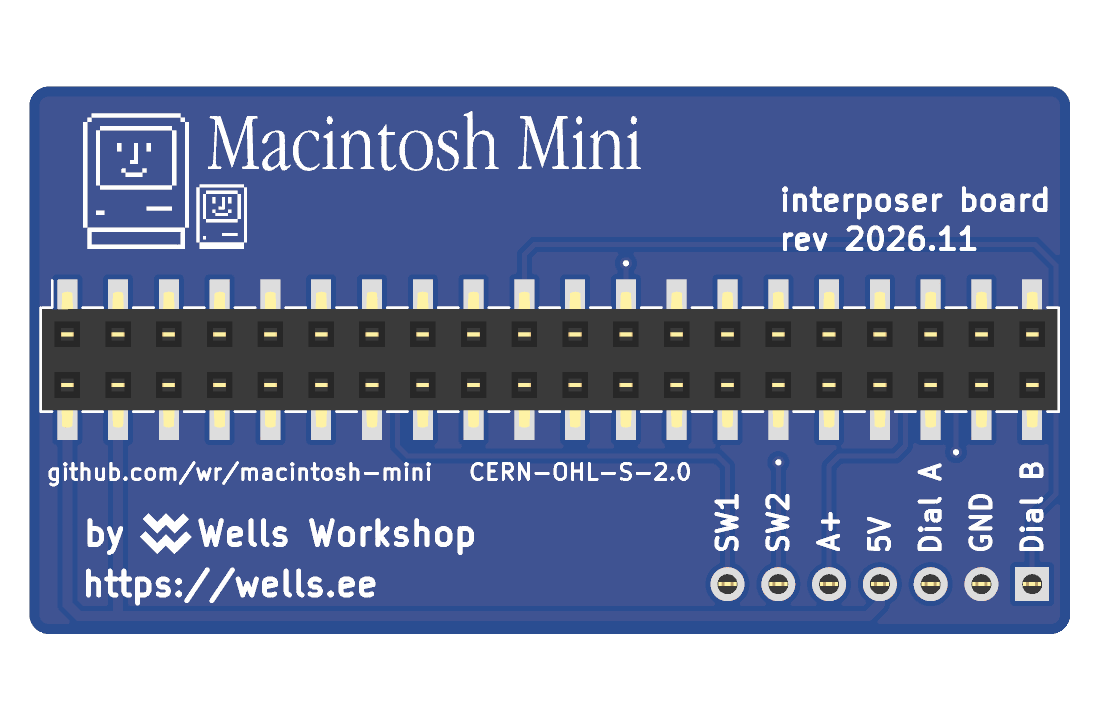
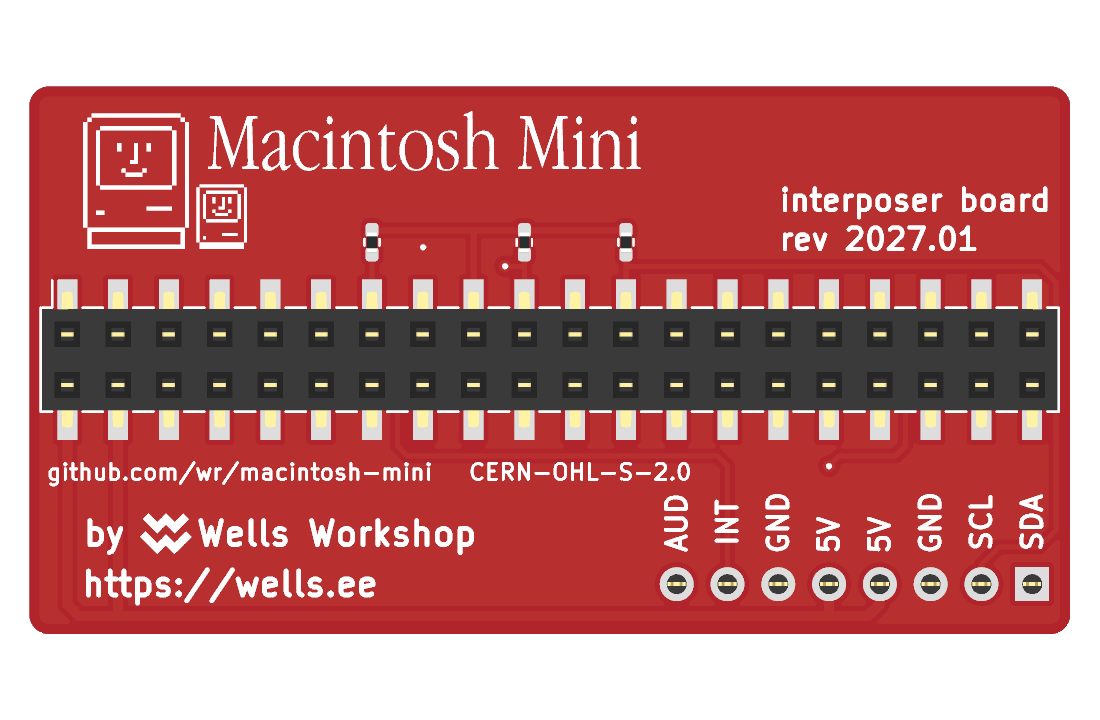
maclock-interposer: README, pictures and AGENTS.md for rev 2027.01

diff --git a/maclock-interposer/README.md b/maclock-interposer/README.md
@@ -4,19 +4,24 @@
 
 A 52 × 27.4 mm, 2-layer KiCad 10 board that sits on the 40-pin header between the Pi Zero 2 W and the Waveshare 2.8" DPI display. Order it fully assembled — no soldering, and no bent, cut, or desoldered pins on the Pi.
 
-An SMD socket underneath plugs onto the Pi and an SMD pin header on top plugs into the display. 35 pins pass straight through (one via each); the five GPIOs the [breakout PCB](../maclock-pcb/) uses (header pins 13, 19, 23, 35, 37) connect to the Pi side **only** and never reach the display, which otherwise fights the dial and buttons. Those five plus 5V and GND come out on a straight 1×7 female socket (J2) on the screen side at the GPIO 21 end, in the same order as the breakout's `Pi GPIO` header, so one straight 1×7 male-to-female Dupont cable connects the two.
+Current revision: 2027.01, for the rev 2027.01 [main board](../maclock-pcb/). **It hasn't been built or tested yet, and the Pi software for it isn't written.** The two revisions don't mix, because their link pins differ: with a rev 2026.11 main board, use the 2026.11 interposer at commit [`ea41efe`](https://github.com/wr/macintosh-mini/tree/ea41efe2434ef0056f3ba3236e3c8bb0ac9fd945/maclock-interposer).
 
-The board is drawn the way it sits in the Maclock: Pi mounted upside-down, seen from the screen. Order it with **blue solder mask and white silkscreen** — the screen side is inverted (silk is the background, the lettering is bare mask); branding is on the Pi side, and J2's pin labels are on both sides.
+An SMD socket underneath plugs onto the Pi and an SMD pin header on top plugs into the display. 35 pins pass straight through (one via each). Header pins 13, 19, 23, 35 and 37 connect to the Pi side **only** and never reach the display. Four of them, plus 5V and GND, come out on a straight 1×8 female socket (J2) on the screen side at the GPIO 21 end. J2's pins are in the same order as the main board's `Link` header, so one straight 8-way male-to-female Dupont cable connects the two. Pin 37 (GPIO 26) is unused.
 
-| J2 pin | Silk   | Net   | Pi header pin | GPIO |
-| ------ | ------ | ----- | ------------- | ---- |
-| 1      | Dial B | ENC_B | 19            | 10   |
-| 2      | GND    | GND   | 20 (all GNDs) | —    |
-| 3      | Dial A | ENC_A | 23            | 11   |
-| 4      | 5V     | 5V    | 2, 4          | —    |
-| 5      | A+     | AUDIO | 35            | 19   |
-| 6      | SW2    | BTN2  | 37            | 26   |
-| 7      | SW1    | BTN1  | 13            | 27   |
+The display uses the Pi's hardware I²C pins for its sync signals, so the Pi reaches the main board's input chip and battery gauge over a software I²C bus on GPIO 10 and 11. Three resistors on the Pi side complete the link. R1 and R2 pull SDA and SCL up to the Pi's 3.3 V. R3 pulls up INT, which the main board's input chip only ever pulls low. The main board has none of these, because the ESP32-P4 build brings its own.
+
+The board is drawn the way it sits in the Maclock: Pi mounted upside-down, seen from the screen. Order it with **red solder mask and white silkscreen**, like the 2027.01 main board, so it can't be paired with a blue 2026.11 board by mistake. The screen side is inverted (silk is the background, the lettering is bare mask). Branding is on the Pi side, and J2's pin labels are on both sides.
+
+| J2 pin | Silk | Net   | Pi header pin | GPIO |
+| ------ | ---- | ----- | ------------- | ---- |
+| 1      | SDA  | SDA   | 19            | 10   |
+| 2      | SCL  | SCL   | 23            | 11   |
+| 3      | GND  | GND   | all GNDs      | —    |
+| 4      | 5V   | 5V    | 2, 4          | —    |
+| 5      | 5V   | 5V    | 2, 4          | —    |
+| 6      | GND  | GND   | all GNDs      | —    |
+| 7      | INT  | INT   | 13            | 27   |
+| 8      | AUD  | AUDIO | 35            | 19   |
 
 ## Bill of materials
 
@@ -24,13 +29,15 @@ The board is drawn the way it sits in the Maclock: Pi mounted upside-down, seen 
 | --- | --- | --------------------------------------------------------------------- | --------------------------------------------------------------------- | ------------------------------------------------- |
 | J1  | 1   | 2×20 female socket, 2.54 mm, SMD, 8.5 mm — Hong Cheng `HC-PM254-8.5H-2x20PS` | [`C22436166`](https://www.lcsc.com/product-detail/C22436166.html) | **Bottom** side, plugs onto the Pi                |
 | J3  | 1   | 2×20 pin header, 2.54 mm, SMD — Hanbo `HB-PH9-254220PB2GOP`            | [`C6332245`](https://www.lcsc.com/product-detail/C6332245.html)       | Top side, plugs into the display                  |
-| J2  | 1   | 1×7 female header (socket), 2.54 mm, 7.1 mm, THT — XFCN `PM254V-11-07-H71-U` | [`C55218706`](https://www.lcsc.com/product-detail/C55218706.html) | Top (screen) side |
+| J2  | 1   | 1×8 female header (socket), 2.54 mm, 7.1 mm, THT — XFCN `PM254V-11-08-H71-U` | [`C55218707`](https://www.lcsc.com/product-detail/C55218707.html) | Top (screen) side. LCSC had 190 in stock on 2026-11-27 |
+| R1, R2 | 2 | 2.2 kΩ ±1% 0402 — UNI-ROYAL `0402WGF2201TCE`                          | [`C25879`](https://www.lcsc.com/product-detail/C25879.html)           | Bottom side. I²C pull-ups on SDA and SCL          |
+| R3  | 1   | 10 kΩ ±1% 0402 — UNI-ROYAL `0402WGF1002TCE`                            | [`C25744`](https://www.lcsc.com/product-detail/C25744.html)           | Bottom side. Pull-up on INT                       |
 
 Both sides carry parts, so order two-sided assembly. Before ordering, check the J1/J3 drawings for locating pegs — the footprints are KiCad's generic peg-less SMD lands (3.0 / 3.15 × 1.0 mm pads, ±2.52 mm from the centreline).
 
 ## Use
 
-Stack Pi → interposer → display (silk: `THIS SIDE FACING PI` / `THIS SIDE FACING SCREEN`). Run a straight 1×7 male-to-female Dupont cable from J2 to the breakout's `Pi GPIO` header, pin 1 (`Dial B`, square pad, GPIO 21 end) to pin 1 (`Dial B`).
+Stack Pi → interposer → display, with the side marked `THIS SIDE FACING SCREEN` toward the display. Run a straight 1×8 male-to-female Dupont cable from J2 to the main board's `Link` header, pin 1 (`SDA`, square pad, GPIO 21 end) to pin 1 (`SDA`).
 
 The interposer adds about 12.5 mm between the Pi and the display (8.5 mm socket + 1.6 mm PCB + 2.5 mm header base), and the board reaches ~10.5 mm past the Pi's header edge. J2 stands 7.1 mm off the screen side, and the Dupont plug in it points toward the display — check both against your case and the display board before ordering.
 

diff --git a/maclock-pcb/README.md b/maclock-pcb/README.md
@@ -4,7 +4,7 @@
 
 KiCad 10 project for the board behind the Mac-shaped clock's screen. It holds the clock's front-panel parts (rotary encoder, two pushbuttons, speaker, power switch and battery harness) and links them to the computer through an 8-pin header. The same board serves the Raspberry Pi and ESP32-P4 builds. It also carries the PAM8302A speaker amplifier, a 5 V supply for the computer, a low-battery cutoff, an input chip that reads the dial and buttons, and a battery gauge (see [Design notes](#design-notes)).
 
-Current revision: 2027.01. **It hasn't been built or tested yet, and the interposers and software that go with it aren't finished.** To build a working Mini today, use rev 2026.11: its files are at commit [`ea41efe`](https://github.com/wr/macintosh-mini/tree/ea41efe2434ef0056f3ba3236e3c8bb0ac9fd945/maclock-pcb), the PCBway project below builds it, and [step 2 of the build guide](https://wells.ee/projects/macintosh-mini/#2-connect-the-pi-to-the-screen-and-the-board) wires it to the Pi. Rev 2026.09 boards, the first ones that shipped, work but whine faintly with the Pi running.
+Current revision: 2027.01. **It hasn't been built or tested yet, and the software that goes with it isn't written.** Its Pi interposer is the rev 2027.01 board in [`maclock-interposer/`](../maclock-interposer/). To build a working Mini today, use rev 2026.11: its files are at commit [`ea41efe`](https://github.com/wr/macintosh-mini/tree/ea41efe2434ef0056f3ba3236e3c8bb0ac9fd945/maclock-pcb), the PCBway project below builds it, and [step 2 of the build guide](https://wells.ee/projects/macintosh-mini/#2-connect-the-pi-to-the-screen-and-the-board) wires it to the Pi. Rev 2026.09 boards, the first ones that shipped, work but whine faintly with the Pi running.
 
 For the case-side parts you'll print, see the [3D-printed screen bezel](../maclock-screen-bezel/).
 

diff --git a/AGENTS.md b/AGENTS.md
@@ -58,11 +58,12 @@ the tiny Mac boots System 7 or Mac OS 8. This repo holds the installer (`setup.s
 ## Board revisions
 - `maclock-pcb/` holds rev 2027.01: one board for the Pi and ESP32-P4 builds, with a 5 V boost,
   one-way switch, latching low-battery cutoff, TCA9554 input chip, MAX17048 gauge and an 8-pin
-  link (SDA SCL GND 5V 5V GND INT AUDIO). Red solder mask. Not built or tested yet; its Pi
-  interposer and software aren't written.
+  link (SDA SCL GND 5V 5V GND INT AUDIO). Red solder mask. Not built or tested yet, and its
+  software isn't written. The GPIO interposer in `maclock-interposer/` is rev 2027.01 too: the
+  same 8-pin link, I²C pull-ups to the Pi's 3.3 V on GPIO 10/11, INT on GPIO 27, red.
 - The shop sells rev 2026.11 (blue; on-board amp with its own quiet 3.0 V supply, HUANO dial laid
-  flat, PicoBlade plugs; files at `ea41efe`), and the PCBWay shared project builds it. The GPIO
-  interposer in `maclock-interposer/` goes with 2026.11.
+  flat, PicoBlade plugs; files at `ea41efe`), and the PCBWay shared project builds it. Its GPIO
+  interposer (1×7 socket) is at `ea41efe` too.
 - The earlier boards that were built and sold say rev 2026.09 on the silk (`fad641b`). Anything
   about those boards means 2026.09, even where it says "2026.10": rev 2026.10 was never built.
 
